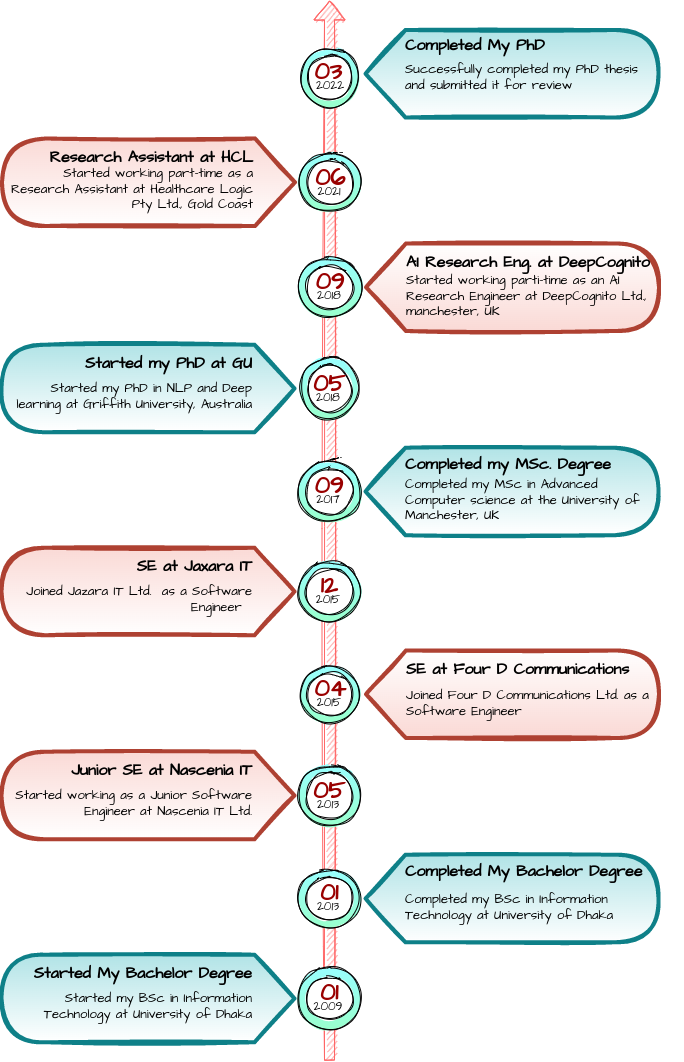
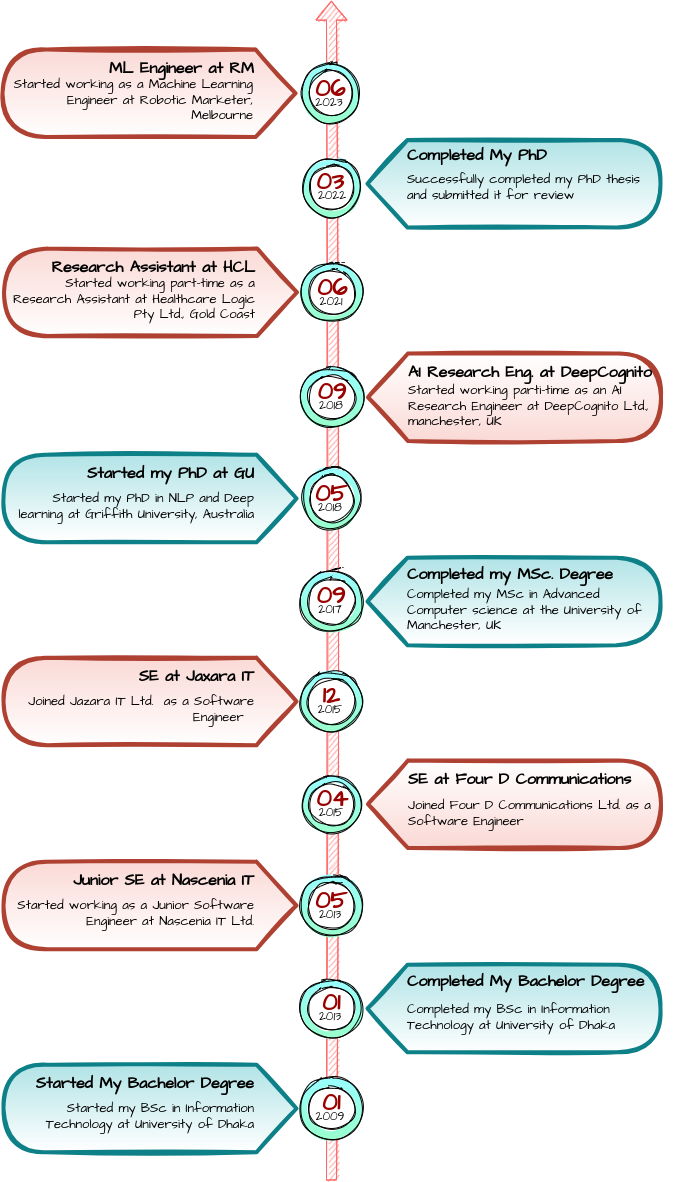
Updated contents

diff --git a/index.md b/index.md
@@ -7,26 +7,80 @@ toc: false
 header:
   image: "assets/images/header.png"
   caption: "Photo credit: [**Unsplash**](https://unsplash.com)"
+  
 ---
 ## Bio
-I have just completed my PhD in Natural Language Processing and Deep Learning. I love to play with data and enjoy 
-developing data-driven applications. I have experience in developing machine learning applications for the healthcare 
-organizations. I have also developed a scalable machine learning framework that supports continuous learning and evaluation. I 
-am also a software engineer. I worked as a software engineer with some well-reputed software companies. I obtained 
-my MSc degree in Advanced Computer Science and IT Management with distinction from The University of Manchester,
-the UK in 2017.
+A highly motivated Machine Learning Engineer with a Ph.D. in NLP and Machine Learning, I am passionate about leveraging data to create impactful solutions across diverse industries such as healthcare, finance, and marketing.
 
-## Hiking 
-In my spare time, I like to go for hiking. Hiking is a great way to explore new places and spend time with nature. 
-My favourite destinations are mountains, lakes, beaches, and forests. The photo below was taken in 2015 during a tour to 
-a remote lake known as ["Boga Lake"](https://en.wikipedia.org/wiki/Bagakain_Lake)  in the hill district Bandarban, Bangladesh. 
+With a proven track record in machine learning, I have developed serverless scraping applications, integrated GPT-4, and devised frameworks for continuous learning and evaluation.
+
+Proficient in advanced NLP techniques, I excel in extracting valuable insights, modeling causal relationships, and employing methods like topic modeling and sentiment detection.
+
+Demonstrating full-stack capabilities, I have successfully developed hybrid mobile applications, built APIs, and overseen software development lifecycles using Agile methodologies.
+
+My Ph.D. research delved into automatically detecting causal relationships in social media data, unlocking powerful potential for decision-making and predictive analytics.
+
+I am enthusiastic about leveraging my deep technical expertise to push the boundaries of data-driven solutions.
+
+## Hobby 
+In my free time, I enjoy hiking. This activity serves as an exceptional avenue for discovering new locales and immersing myself in the wonders of nature. My preferred destinations encompass mountains, lakes, beaches, and forests, each providing a unique and enriching experience.
+
+One of the most memorable expedition took place in 2015, where I visited to the pristine ["Boga Lake"](https://en.wikipedia.org/wiki/Bagakain_Lake) in the hill district of Bandarban, Bangladesh. This remote lake, nestled amidst captivating landscapes, epitomizes the kind of off-the-beaten-path exploration that fuels my passion for outdoor adventure. The photograph captured during this expedition encapsulates the essence of my connection with nature and the joy derived from such immersive experiences.
 
 ![](assets/images/travel.jpg)
 
 ## Leadership Roles
-I was selected as the **Secretary** of Griffith University Bangladeshi Association Gold Coast (GUBAGC) for the 2018-19 
-session. Throughout the year, I led the student club and organized various student engagement and cultural 
-programs, e.g. study tours, seminars, and one-to-one advisory sessions to ensure a 
-successful academic and social life for every Bangladeshi students at Griffith University in Gold Coast, Australia.
+In addition to my technical endeavors, I served as the Secretary of Griffith University Bangladeshi Association Gold Coast (GUBAGC) during the 2018-19 session, demonstrating my leadership and organizational capabilities. In this role, I took charge of the student club, overseeing and orchestrating a range of student engagement and cultural programs. From coordinating study tours and seminars to conducting one-to-one advisory sessions, my aim was to enhance the academic and social experiences of Bangladeshi students at Griffith University in Gold Coast, Australia. This leadership position allowed me to contribute to the community and foster a supportive environment for fellow students, showcasing my commitment to both technical excellence and community building.
 
 ![](assets/images/gubagc_agm.png)
+
+
+## Get in Touch
+<!-- Get in touch form -->
+<style>
+  .form-control {
+    display: block;
+    width: 100%;
+    height: calc(1.5em + 0.75rem + 2px);
+    padding: 0.375rem 0.75rem;
+    font-size: 1rem;
+    font-weight: 400;
+    line-height: 1.5;
+    color: #495057;
+    background-color: #fff;
+    background-clip: padding-box;
+    border: 1px solid #ced4da;
+    outline: none;
+    border-radius: 0.25rem;
+    transition: border-color 0.15s ease-in-out, box-shadow 0.15s ease-in-out;
+}
+
+textarea.form-control {
+    font-family: -apple-system, Arial, sans-serif;
+    height: auto;
+}
+
+label.label {
+    display: inline-block;
+    margin-bottom: 0.5rem;
+}
+
+</style>
+<form
+  action="https://formspree.io/f/moqgqwal"
+  method="POST"
+><label>
+    Your name
+    <input type="text" name="name" class = 'form-control' required>
+  </label>
+  <label>
+    Your email address
+    <input type="email" name="email" class = 'form-control' required>
+  </label>
+  <label>
+    Your message
+    <textarea name="message" class = 'form-control' required></textarea>
+  </label>
+  <!-- your other form fields go here -->
+  <button type="submit" class ="btn btn--primary">Send</button>
+</form>

diff --git a/_pages/experience.md b/_pages/experience.md
@@ -2,43 +2,48 @@
 layout: single
 title: "Work Experience"
 permalink: /experience/
+classes: wide
 ---
-### Research Assistant, Part-time, (Jun 2021 - Present)
-*HealthcareLogic Pty Ltd., Gold Coast*
+### Machine Learning Engineer 
+*Robotic Marketer, Melbourne (Jun 2022 - present)*
+ 
+- Engineered algorithms employing semantic similarity, OpenSearch, and GPT models to recommend relevant events, media outlets, and awards for clients, consistently maintaining accuracy above 80%.
+- Developed a serverless application for identifying business competitors through automatic Google search, employing semantic similarity for filtering and ranking, achieving accuracy levels between 80-90%.
+- Fine-tuned and integrated GPT models to autonomously generate customized blog headings, enhancing content creation efficiency.
+- Developed serverless applications on AWS Lambda for website scraping and extraction of valuable data, demonstrating proficiency in data acquisition.
+- Designed and implemented backend APIs using Flask in Python, fostering seamless communication between applications and ensuring robust system architecture.
 
-Responsibilities 
-- Designed and developed a machine learning model for hospital length of stay prediction
-- Improved the accuracy of the existing LoS prediction model by more than 20%
-- Developed a patient arrival rate prediction model for hospitals
+### Research Assistant [Part-time] 
+*HealthcareLogic, Gold Coast (Jun 2021 - May 2022)*
 
-### AI Research Engineer, Part-time, (Sep 2018 - Apr 2019)
-*DeepCognito Ltd., Manchester, UK*
+- Designed and implemented a machine learning model for predicting hospital length of stay, optimizing patient care planning.
+- Significantly enhanced the accuracy of the existing Length of Stay (LoS) prediction model by over 20%, contributing to more precise healthcare resource allocation.
+- Engineered a patient arrival rate prediction model for hospitals, improving operational efficiency and resource management.
 
-Responsibilities 
-- Extracted topics and associate sentiments from patient feedback comments
-- Applied data loading, preprocessing, segmentation, and topic modeling on patient opinion data
-- Completed an ML model to detect sentiment in news articles
+### AI Research Engineer [Part-time] 
+*DeepCognito, Manchester, UK (Sep 2018 - Apr 2019)*
 
-### Software Engineer (Dec 2015 - Aug 2016)
-*Jaxara IT Limited, Dhaka, Bangladesh*
+- Extracted topics and sentiments from patient feedback comments, enhancing insights into healthcare experiences.
+- Executed data loading, preprocessing, segmentation, and topic modeling on patient opinion data, optimizing information extraction processes.
+- Developed a machine learning model for sentiment detection in news articles, contributing to accurate sentiment analysis across diverse content.
 
-Responsibilities 
-- Transformed client requirements into requirement specification
-- Designed and setup system architecture by following standard practices
-- Applied tools such as Drupal, Jira, and Git for implementation and documentation
+### Software Engineer 
+*Jaxara IT, Dhaka, Bangladesh (Dec 2015 - Aug 2016)*
+
+- Translated client requirements into comprehensive requirement specifications, ensuring a clear understanding of project objectives and expectations.
+- Formulated and implemented system architecture, adhering to industry-standard practices, to create robust and scalable solutions.
+- Utilized tools such as Drupal, Jira, and Git for seamless implementation and meticulous documentation, enhancing project efficiency and collaboration.
   
-### Software Engineer (Apr 2015 - Nov 2015)
-*Four D Communications Ltd., Dhaka, Bangladesh*
+### Software Engineer 
+*Four D Communications, Dhaka, Bangladesh (Apr 2015 - Nov 2015)*
 
-Responsibilities 
-- Developed a hybrid mobile app using the Ionic framework, Cordova, and AngularJS
-- Monitored and fixed issues in a customer relationship management (CRM)
-- Managed software development life cycle using Agile Scrum
+- Engineered a hybrid mobile application utilizing the Ionic framework, Cordova, and AngularJS, showcasing adeptness in cross-platform development.
+- Diagnosed and resolved issues within a customer relationship management (CRM) system, ensuring continuous functionality and optimal user experience.
+- Adhered to Agile Scrum methodologies throughout the software development life cycle, ensuring a streamlined and collaborative approach to project management and delivery.
   
-### Software Engineer (Jun 2013 - Mar 2015)
-*Nascenia IT, Dhaka, Bangladesh*
+### Software Engineer
+*Nascenia IT, Dhaka, Bangladesh (Jun 2013 - Mar 2015)*
 
-Responsibilities 
-- Developed a betting-related PHP web application that requires API integration
-- Optimized the performance of a web application using caching
-- Integrated the social media login API to a web application
+- Spearheaded the creation of dynamic web applications using PHP, JavaScript, and CSS, demonstrating proficiency in full-stack development.
+- Implemented performance optimization strategies through effective caching techniques, resulting in enhanced overall web application speed and responsiveness.
+- Orchestrated seamless integration of authentication systems and social media login features, elevating user experience and engagement within web applications.

diff --git a/_pages/skills.md b/_pages/skills.md
@@ -2,32 +2,57 @@
 layout: single
 title: "Skills"
 permalink: /skills/
+classes: wide
 ---
 
 ## Technical skills
-- **Python** 
-  - data manipulation with numpy and pandas 
-  - data mining with keras 
-  - scikit-learn 
-  - data visualization with matplotlib 
-- **TensorFlow** 
-  - Machine learning model architecture design, 
-  - deep learning 
-- **SQL** 
-  - Database design and integration 
-- **MongoDB** 
-  - Storing and retrieving large datasets
-  - schema validation 
-- **R** 
-  - Text data mining with dplyr, NLP, tm 
-- **C/C++** 
-  - desktop applications), 
-- **PHP** 
-  - Web application development 
-  - REST API
+
+- **Generative AI**
+  - Fine-tuning GPT for tailored applications
+  - Integration of OpenAI API
+  - Semantic similarity utilizing OpenAI embeddings
+  - Implementing classifications and recommendations using GPT
+
+- **AWS**
+  - Development of serverless applications with Lambda and API Gateway
+  - Semantic search implementation with OpenSearch
+  - Management of EC2 instances
+  - DevOps practices with Codecommit, CodeDeploy, and CodePipeline
+
+- **Python**
+  - Data manipulation leveraging numpy and pandas
+  - Data mining using keras and scikit-learn
+  - Data visualization through matplotlib
+
+- **TensorFlow**
+  - Designing machine learning model architectures
+  - Deep learning implementation
+
+- **SQL**
+  - Expertise in database design and integration
+
+- **MongoDB**
+  - Proficient in storing and retrieving large datasets
+  - Implementation of schema validation
+
+- **R**
+  - Text data mining using dplyr, NLP, and tm
+- **C/C++**
+  - Development of desktop applications
+- **PHP**
+  - Web application development
+  - REST API implementation
+
+
 
 ## Leadership Skills
-- Founded Dhaka University IT Society (DUITS) and served as an Executive Committee Member from 2012 to 2013
-- Led Griffith University Bangladesh Association, Gold Coast (GUBAGC) as a Secretary from 2019 to 2020
-- Mentored junior software engineers at DeepCognito
-- Tutored a Python programming course at Griffith University
+
+- **DUITS Founder and Executive Committee Member (2012-2013):** As the founder of Dhaka University IT Society (DUITS), I played a pivotal role in establishing and shaping the organization. Serving as an Executive Committee Member, I demonstrated early leadership in fostering a collaborative environment for IT enthusiasts.
+
+- **Secretary at GUBAGC (2019-2020):** Leading the Griffith University Bangladesh Association, Gold Coast (GUBAGC) as Secretary, I organized and directed initiatives aimed at enhancing the academic and social experiences of Bangladeshi students. This role required effective communication, organizational prowess, and a commitment to community building.
+
+- **Mentoring at Robotic Marketer and DeepCognito:** As a mentor at both Robotic Marketer and DeepCognito, I took on the responsibility of guiding junior software engineers and interns. This involved sharing knowledge, providing support, and fostering a conducive learning environment, showcasing my commitment to nurturing talent within the industry.
+
+- **Tutoring at Griffith University:** Beyond mentoring in the workplace, I extended my leadership into academia by tutoring computing algorithm and Python programming courses at Griffith University. This role allowed me to impart knowledge, facilitate learning, and contribute to the development of future professionals in the field.
+
+These experiences collectively underscore my leadership skills, emphasizing adaptability across different settings, mentorship capabilities, and a dedication to both professional and academic growth.

diff --git a/_pages/education.md b/_pages/education.md
@@ -2,22 +2,23 @@
 layout: single
 title: "Education"
 permalink: /education/
+classes: wide
 ---
-### Doctor of Philosophy (PhD), 2018 – 2022
-*Griffith University, Australia*
+### Doctor of Philosophy (PhD)
+*Griffith University, Australia (2018 – 2022)*
 
 - Thesis Topic: Deep Learning for Causal Discovery in Texts
 - Research Area: Causality Detection, Natural Language Processing, Knowledge Discovery, Machine Learning, 
 Text Mining, Data Science 
 
-### MSc in Advanced Computer Science and IT Management, 2016 – 2017
-*The University of Manchester, UK*
+### MSc in Advanced Computer Science and IT Management
+*The University of Manchester, UK (2016 – 2017)*
 
 - Thesis Topic: Mining Patient Experience in Free-Text Data
-- GPA: 78.0% (Passed with Distinction)
+- GPA: 78% (Passed with Distinction)
 
-### Bachelor of Information Technology, 2009 – 2013
-*University of Dhaka, Bangladesh*
+### Bachelor of Information Technology
+*University of Dhaka, Bangladesh (2009 – 2013)*
 
 - Major: Software Engineering
 - CGPA: 3.82 (out of 4.00)

diff --git a/_pages/accolades.md b/_pages/accolades.md
@@ -2,9 +2,11 @@
 layout: single
 title: "Accolades"
 permalink: /accolades/
+classes: wide
+toc: false
 ---
 
 ## Awards and Scholarships
 - The best paper runner-up award at the ADMA 2019 conference
-- Griffith University PhD Scholarship (2018 - 2022)
-- Commonwealth Scholarship (2016 - 2017)
+- Griffith University PhD scholarship (2018 - 2022)
+- Commonwealth scholarship (2016 - 2017)

diff --git a/_pages/resources.md b/_pages/resources.md
@@ -2,6 +2,7 @@
 layout: single
 title: "Resources"
 permalink: /resources/
+classes: wide
 ---
 
 [//]: # (You can [get the PDF]&#40;{{ site.url }}/assets/files/Humayun-Kayesh-CV.pdf&#41; directly.)
